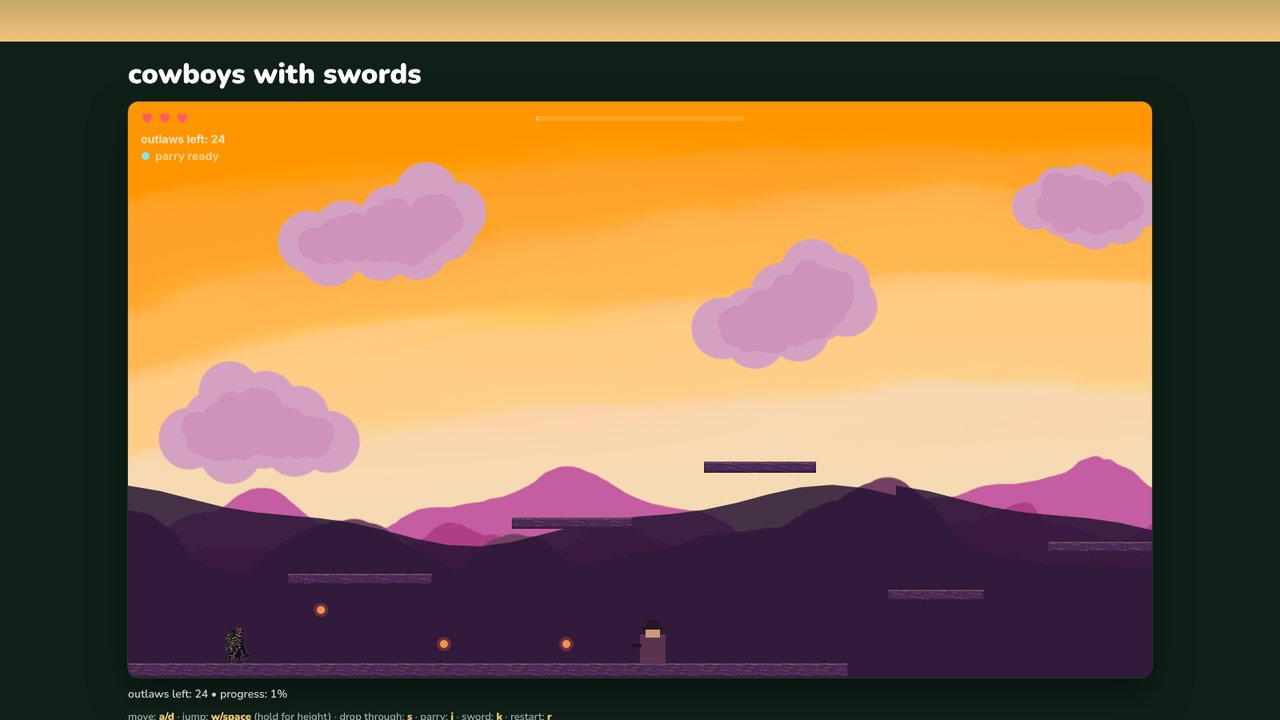
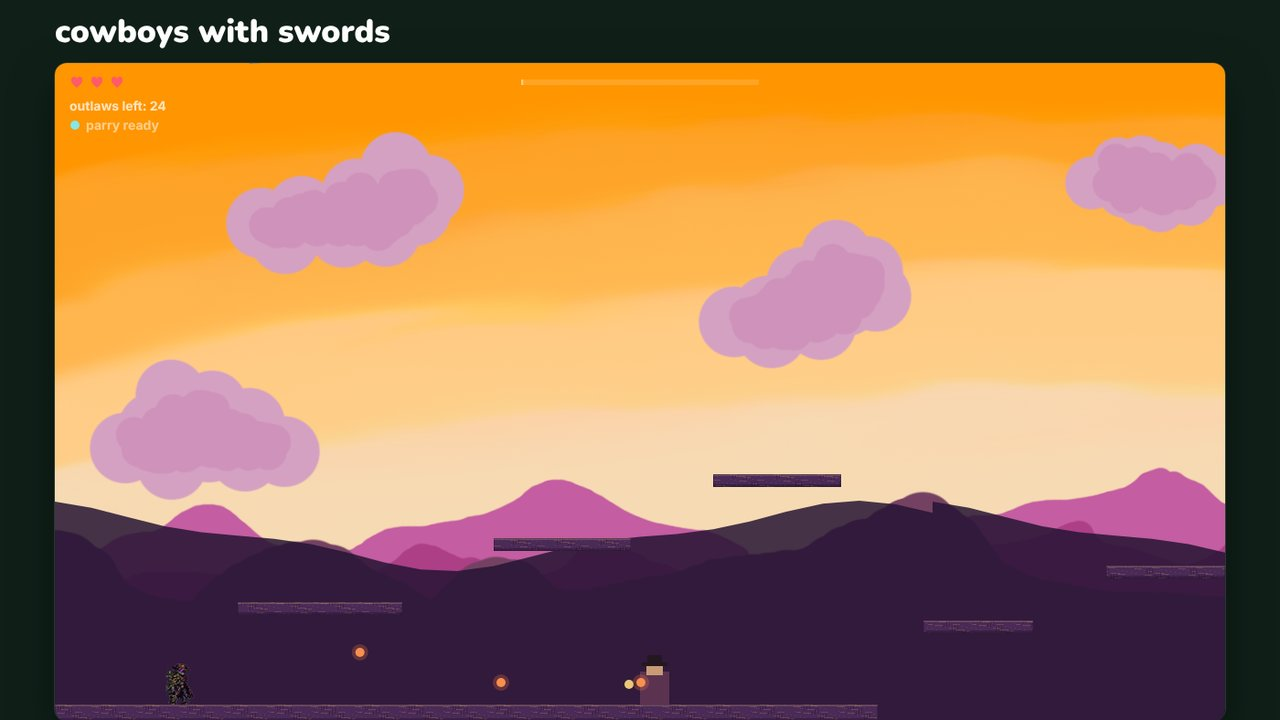
Cleaner card photos in light gold frames, light gold hardgoods backgrounds (#9)
* Crop the ombre header out of the homepage card photos

Claude-Session: https://claude.ai/code/session_01L7fod2f38d2P5VmafgRX3X

* Frame site photos in gold and put hardgoods on the ombre's light gold

Website card photos get a thin gold border that thickens on hover, and the
hardgoods cutouts sit on the header ombre's light gold instead of white,
on the homepage and the hardgoods page.

Claude-Session: https://claude.ai/code/session_01L7fod2f38d2P5VmafgRX3X

* Set website card photos in a light gold frame that thickens on hover

Claude-Session: https://claude.ai/code/session_01L7fod2f38d2P5VmafgRX3X

---------

diff --git a/index.html b/index.html
@@ -92,7 +92,7 @@
       <div class="projects-grid">
         <article class="project-card" data-category="tools">
           <a class="project-link" href="friday/index.html">
-            <div class="project-media">
+            <div class="project-media project-media--site">
               <img src="assets/friday-gui.png" alt="Friday dashboard GUI" loading="lazy" />
             </div>
             <div class="project-body">
@@ -104,7 +104,7 @@
         </article>
         <article class="project-card" data-category="tools">
           <a class="project-link" href="FoodFinder/food.html">
-            <div class="project-media">
+            <div class="project-media project-media--site">
               <img src="assets/foodfinder.jpg" alt="Food Finder preview" loading="lazy" />
             </div>
             <div class="project-body">
@@ -116,7 +116,7 @@
         </article>
         <article class="project-card" data-category="games">
           <a class="project-link" href="Game1/project1.html">
-            <div class="project-media">
+            <div class="project-media project-media--site">
               <img src="assets/cowboys.jpg" alt="Cowboys with Swords gameplay preview" loading="lazy" />
             </div>
             <div class="project-body">
@@ -128,7 +128,7 @@
         </article>
         <article class="project-card" data-category="games">
           <a class="project-link" href="Pokemon/wtp.html">
-            <div class="project-media">
+            <div class="project-media project-media--site">
               <img src="assets/pokefinder.jpg" alt="Poké Finder preview" loading="lazy" />
             </div>
             <div class="project-body">

diff --git a/style.css b/style.css
@@ -309,9 +309,25 @@ section + section {
   transition: transform 0.4s;
 }
 
-/* Background-removed product shots sit whole on a light panel */
+/* Website screenshots sit in a light gold frame (the header ombre's horizon) that thickens on hover */
+.project-media--site {
+  background: var(--sky-horizon);
+}
+
+.project-media--site img {
+  padding: 6px;
+  border-radius: 10px;
+  transition: transform 0.4s, padding 0.25s;
+}
+
+.project-card:hover .project-media--site img {
+  transform: none;
+  padding: 14px;
+}
+
+/* Background-removed product shots sit whole on the light gold from the header ombre */
 .project-media--cutout {
-  background: #f4f2f6;
+  background: var(--sky-horizon);
 }
 
 .project-media--cutout img {

diff --git a/hardgoods/hardgoods.css b/hardgoods/hardgoods.css
@@ -2,7 +2,7 @@
 
 :root {
   --bg: #102019;
-  --panel: #f4f2f6; /* background-removed shots sit on a light panel, as on the homepage */
+  --panel: var(--sky-horizon); /* background-removed shots sit on the light gold from the header ombre, as on the homepage */
   --ink: #dde4e0;
   --muted: #9fb0a6;
   --line: #243a2f;
